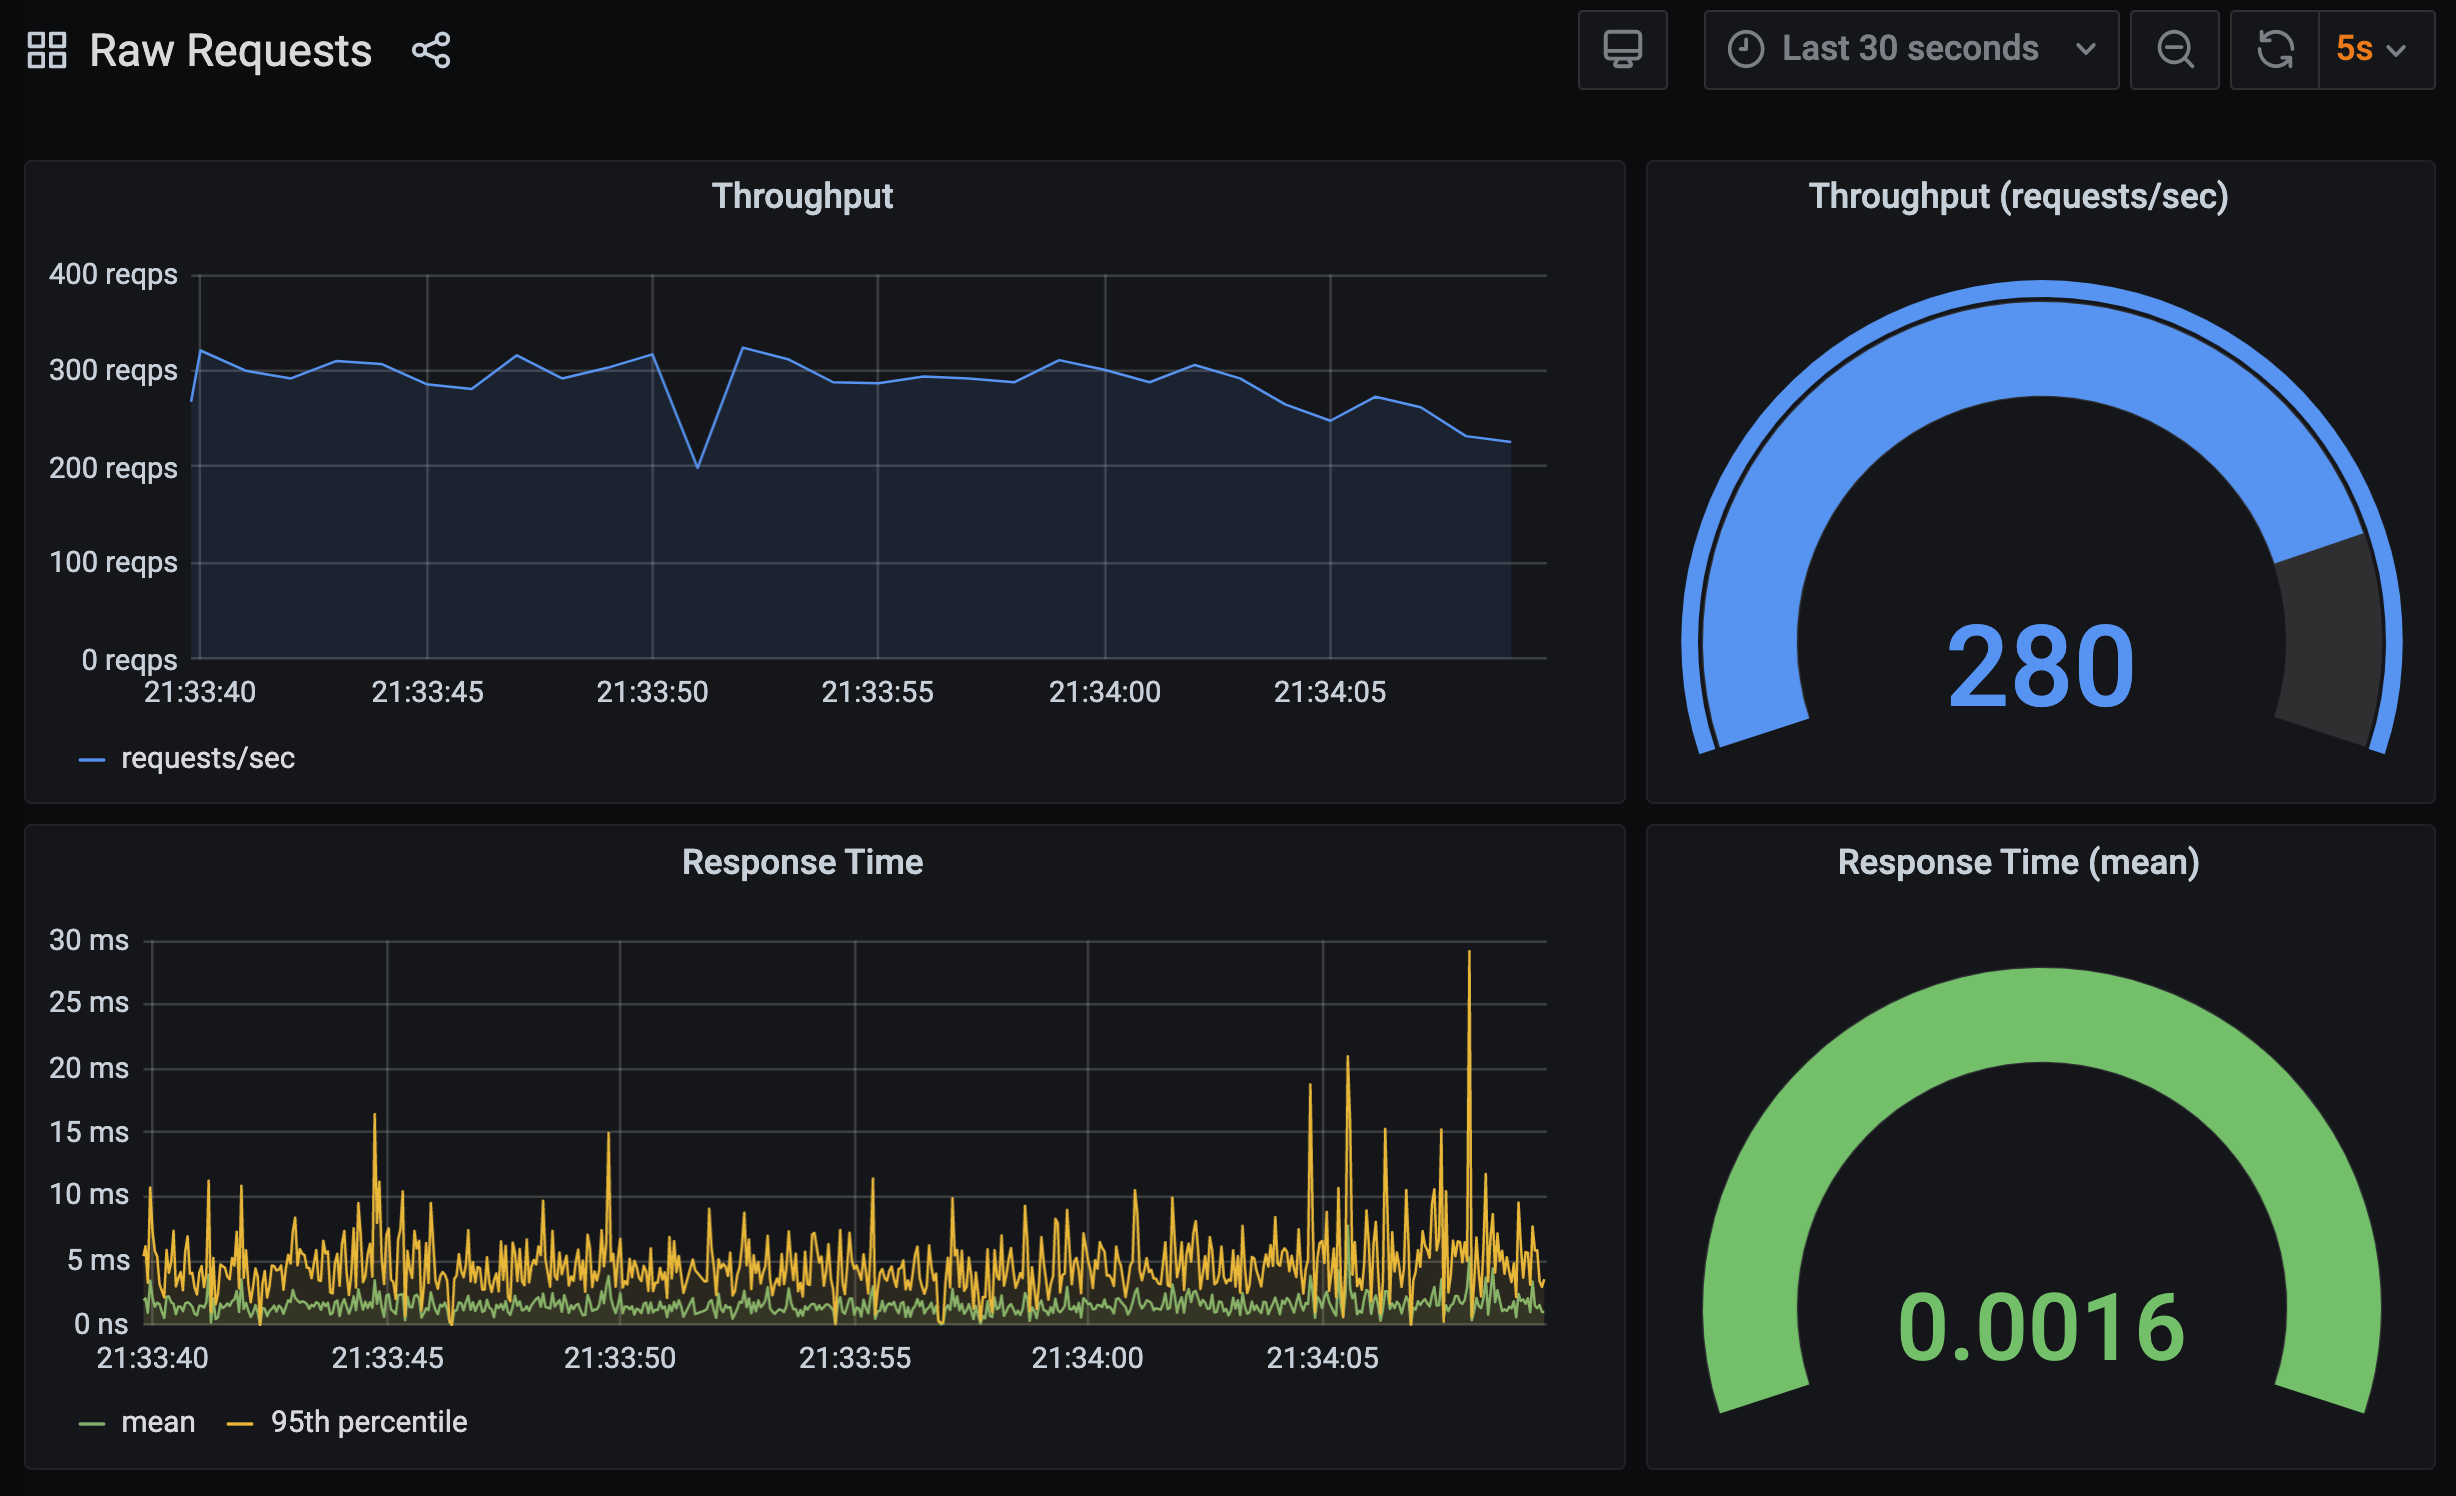
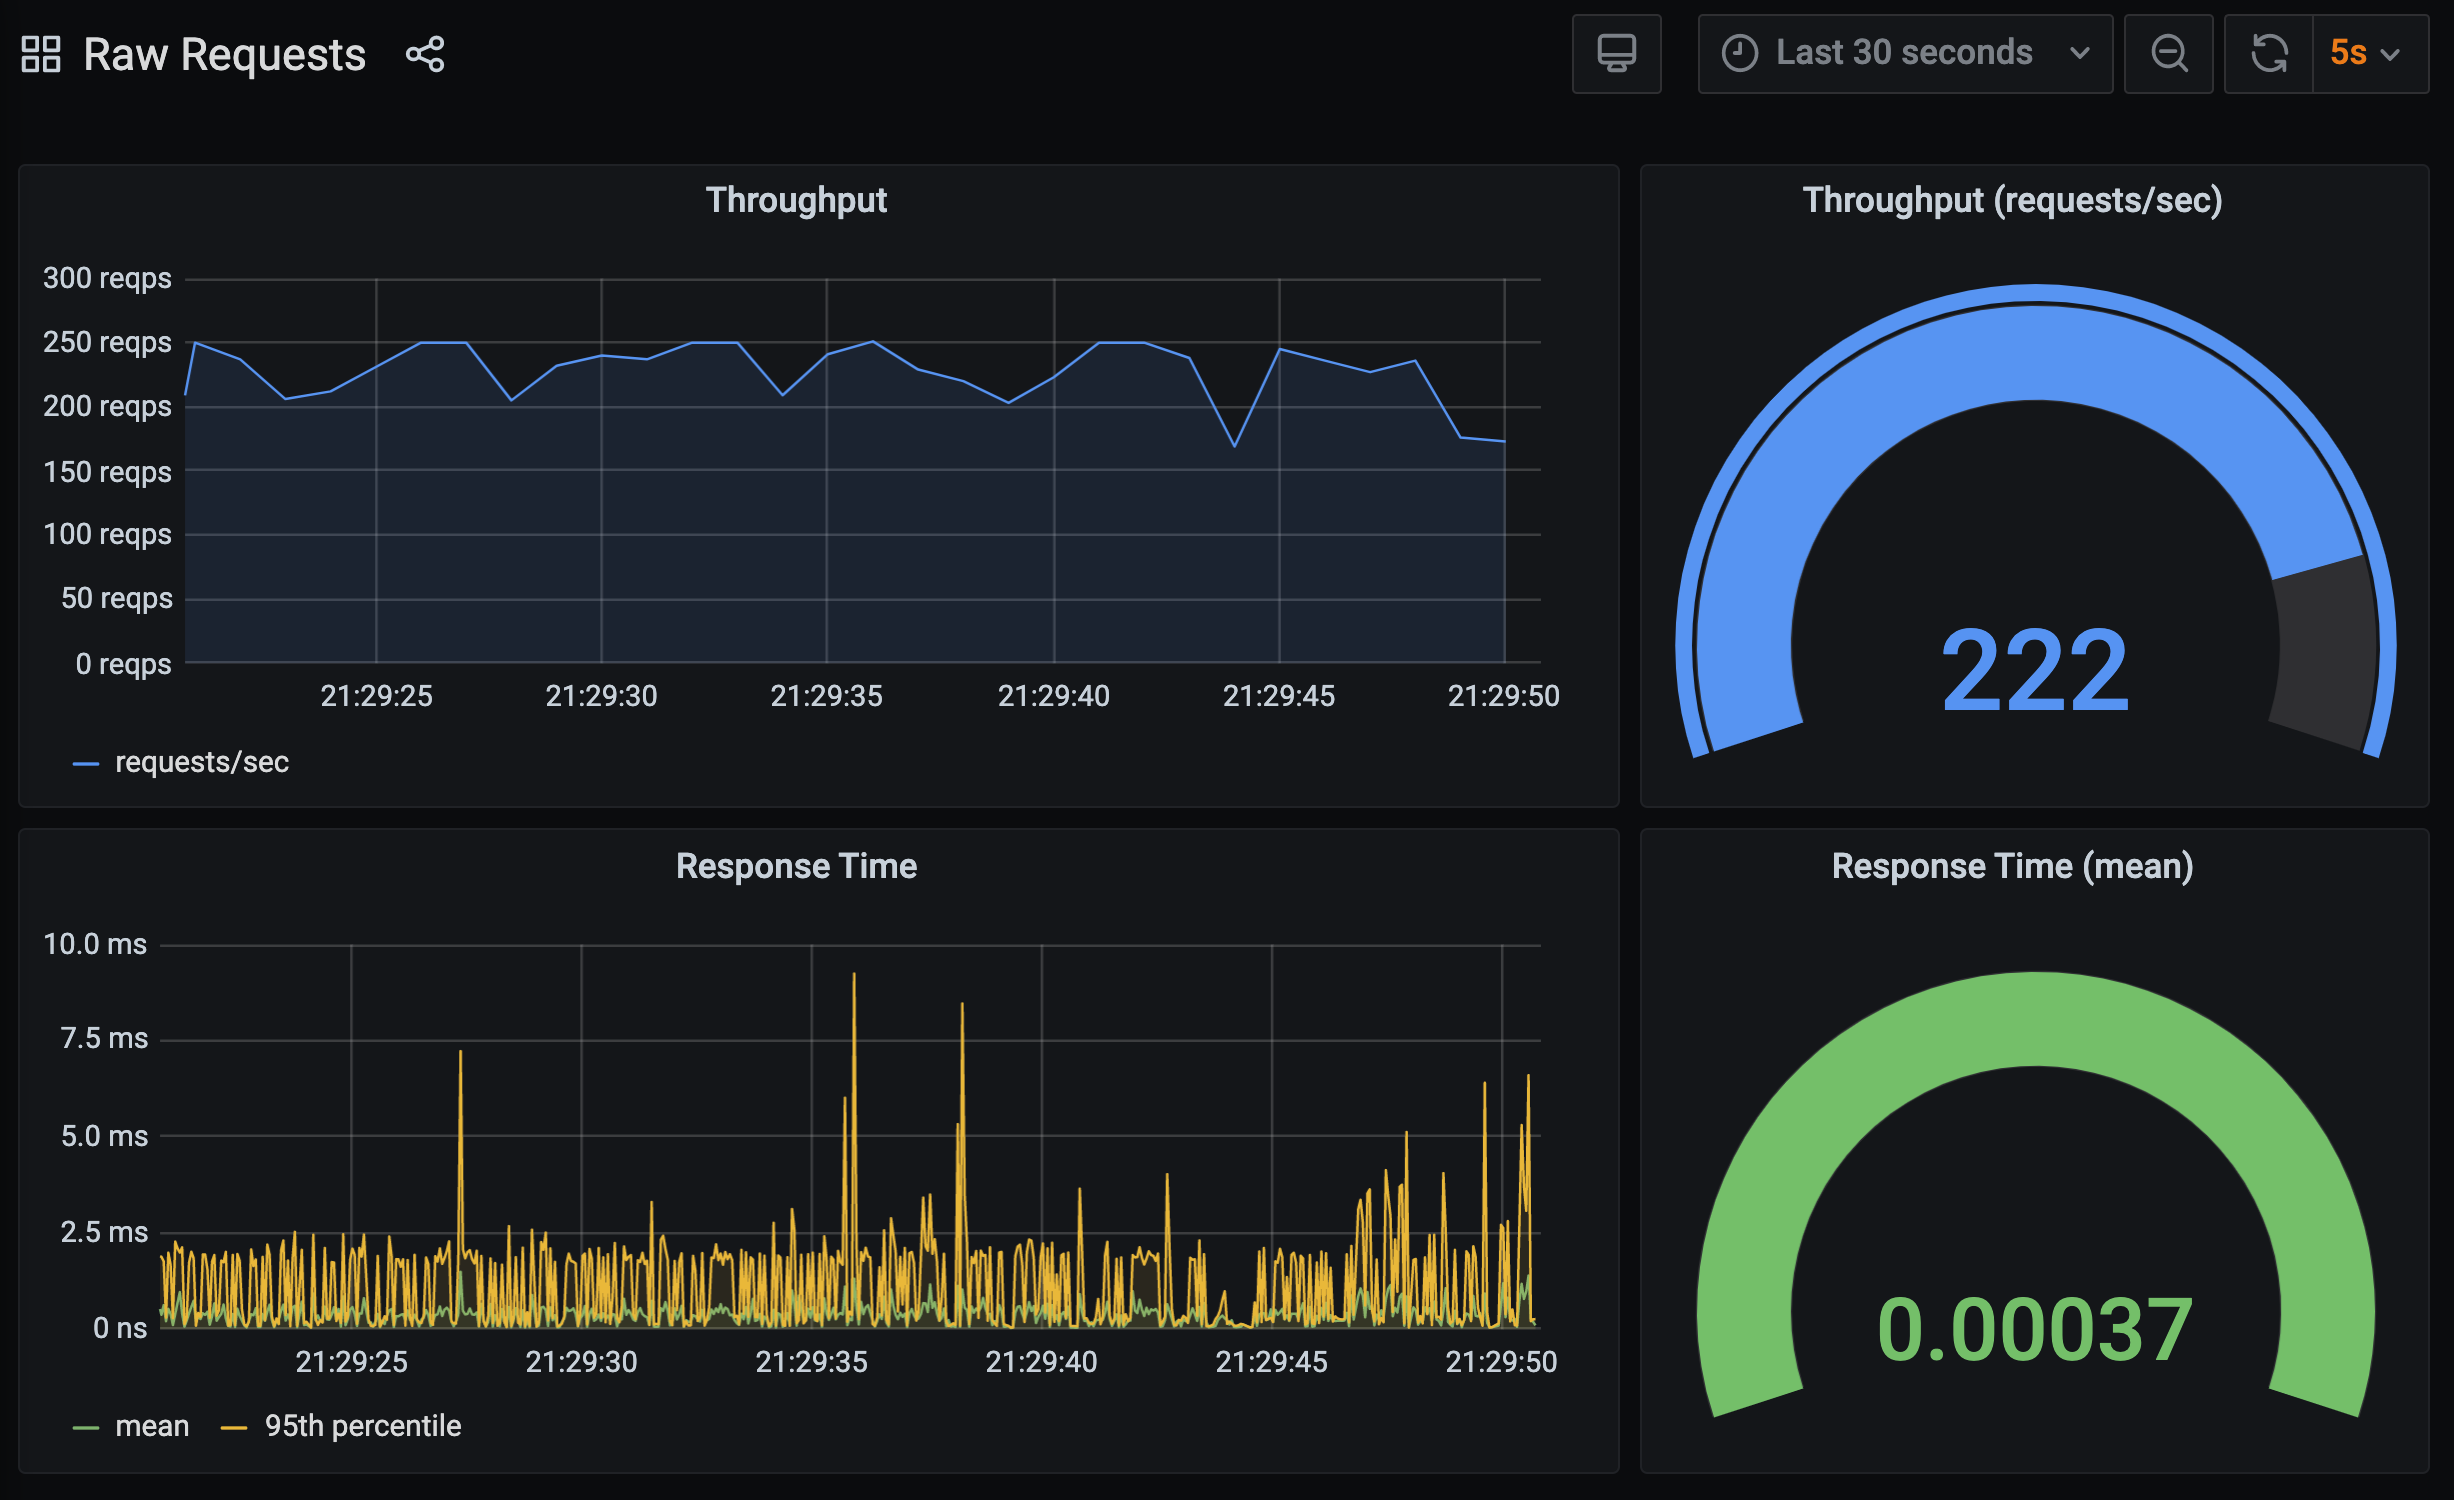
Update commentary and screen shots.

diff --git a/workshop/content/exercises/05-wsgi-application.md b/workshop/content/exercises/05-wsgi-application.md
@@ -36,7 +36,7 @@ To test the decorator does what is required, start up the WSGI application:
 command: mod_wsgi-express start-server hello-world-v3/wsgi_1.py --log-to-terminal --working-directory hello-world-v3
 ```
 
-and send through a stream of requests.
+and send through a stream of requests at the rate of 1 request/sec again.
 
 ```terminal:execute
 command: bombardier -d 120s -c 1 -r 1 http://localhost:8000
@@ -71,10 +71,10 @@ Start up the WSGI application:
 command: mod_wsgi-express start-server hello-world-v3/wsgi_2.py --log-to-terminal --working-directory hello-world-v3
 ```
 
-and send through a much higher request load once more.
+and send through the original request load once more.
 
 ```terminal:execute
-command: bombardier -d 120s -c 5 http://localhost:8000
+command: bombardier -d 120s -c 3 -r 250 http://localhost:8000
 session: 2
 ```
 
@@ -85,17 +85,17 @@ name: Grafana
 url: {{ingress_protocol}}://{{session_namespace}}-grafana.{{ingress_domain}}{{ingress_port_suffix}}/d/raw-requests?orgId=1&refresh=5s
 ```
 
-We are still getting our results, but although the response time has dropped because of the delay being removed, you may notice that the measured response time isn't a small as when using the original timing decorator.
+The metrics are still coming through, but although the response time has dropped because of the delay being removed, you may notice that the measured response time isn't a small as when using the original timing decorator.
 
 ![](hello-world-v3-2-raw-requests.png)
 
 The reason for this is that in order to properly capture the response time, as well as deal with any exceptions that may occur, the decorator and wrapper for the result returned by the WSGI application are somewhat more complicated.
 
-This highlights an important consideration when instrumenting web applications to collect metrics. That is that the instrumentation will itself add its own overheads and can affect the response times for your application.
+This highlights an important consideration when instrumenting web applications to collect metrics. That is that the instrumentation will itself add its own overheads and can affect the response times for your application where they are very small to begin with.
 
 In order to ensure that any instrumentation doesn't add overheads that outweigh the gains of having visibility into what is occuring in your application and the web server, how they are applied and how they are implemented needs to be considered very carefully.
 
-The increased response time seen with this decorator and wrapper is one example and we will revisit the issue later, but perhaps not obvious at all right now is the significant performance degradation which is going on due to how we are reporting the metrics back to InfluxDB.
+Probably not obvious at all right now is how significant the performance degradation is due to the way we are currently reporting the metrics back to InfluxDB.
 
 We are done with this test, so stop `bombardier` if it is still running, as well as the WSGI application.
 

diff --git a/workshop/content/exercises/04-python-generators.md b/workshop/content/exercises/04-python-generators.md
@@ -30,7 +30,7 @@ Start up the WSGI application:
 command: mod_wsgi-express start-server hello-world-v2/wsgi_2.py --log-to-terminal --working-directory hello-world-v2
 ```
 
-To make things clearer, this time we will send HTTP requests at a rate of only 1 request/sec, rather than trying to send as many requests as we can.
+To make things clearer, this time we will send HTTP requests at a rate of only 1 request/sec.
 
 ```terminal:execute
 command: bombardier -d 120s -c 1 -r 1 http://localhost:8000
@@ -50,7 +50,7 @@ What you would think you should see is a response time of about 0.05 seconds, bu
 
 The reason this is the case is that when `yield` is used and the function turned into a generator, the time being recorded is that needed to create the generator object and return it. The decorator as written isn't going to record the time taken to execute the body of the function, nor the time taken to consume everything yielded up by the generator.
 
-As a consequence, for WSGI applications you cannot use a normal decorator to time how long it takes to handle HTTP requests. Instead, we need to use a wrapper implementation that handles the fact that the WSGI application could be implemented as a generator, or any other type of iterable object, and which works with the WSGI application protocol specification for closing out a request.
+As a consequence, for WSGI applications you cannot use a normal decorator to time how long it takes to handle HTTP requests. Instead, we need to use a wrapper implementation that handles the fact that the WSGI application could be implemented as a generator, or any other type of iterable object, and which makes use of the mechanism defined by the WSGI application protocol specification to indicate when a request is complete.
 
 Stop `bombardier` if it is still running, as well as the WSGI application.
 
